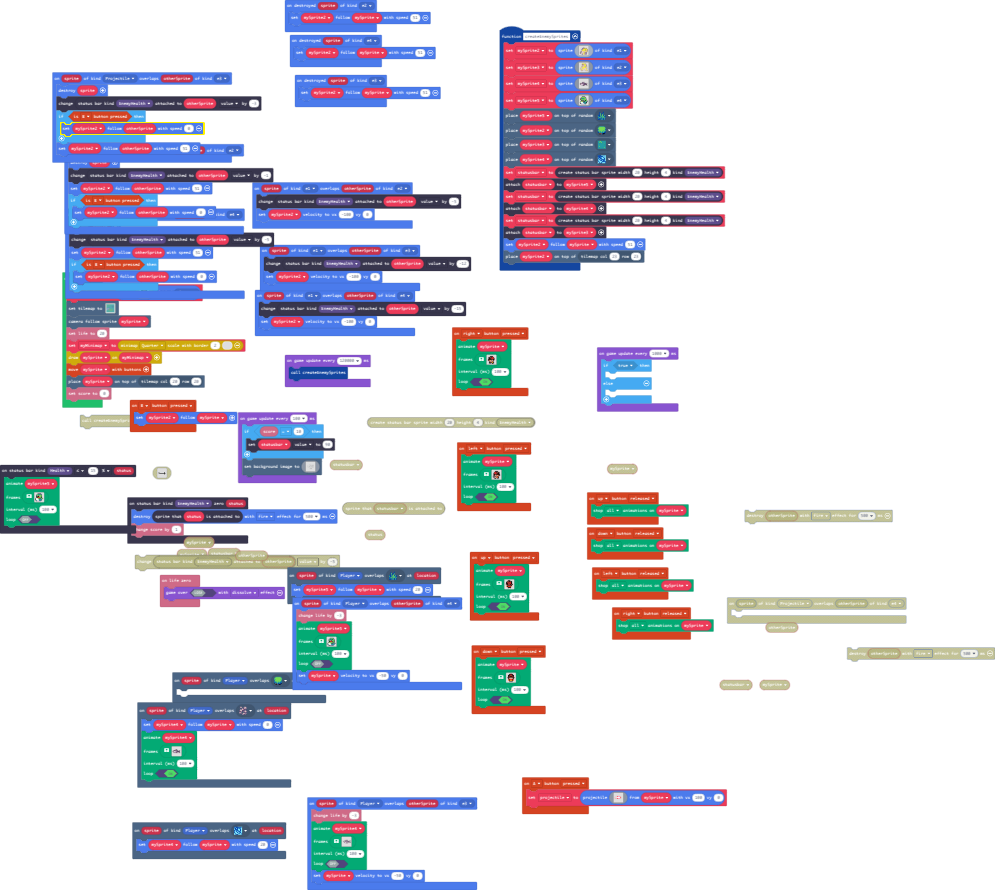
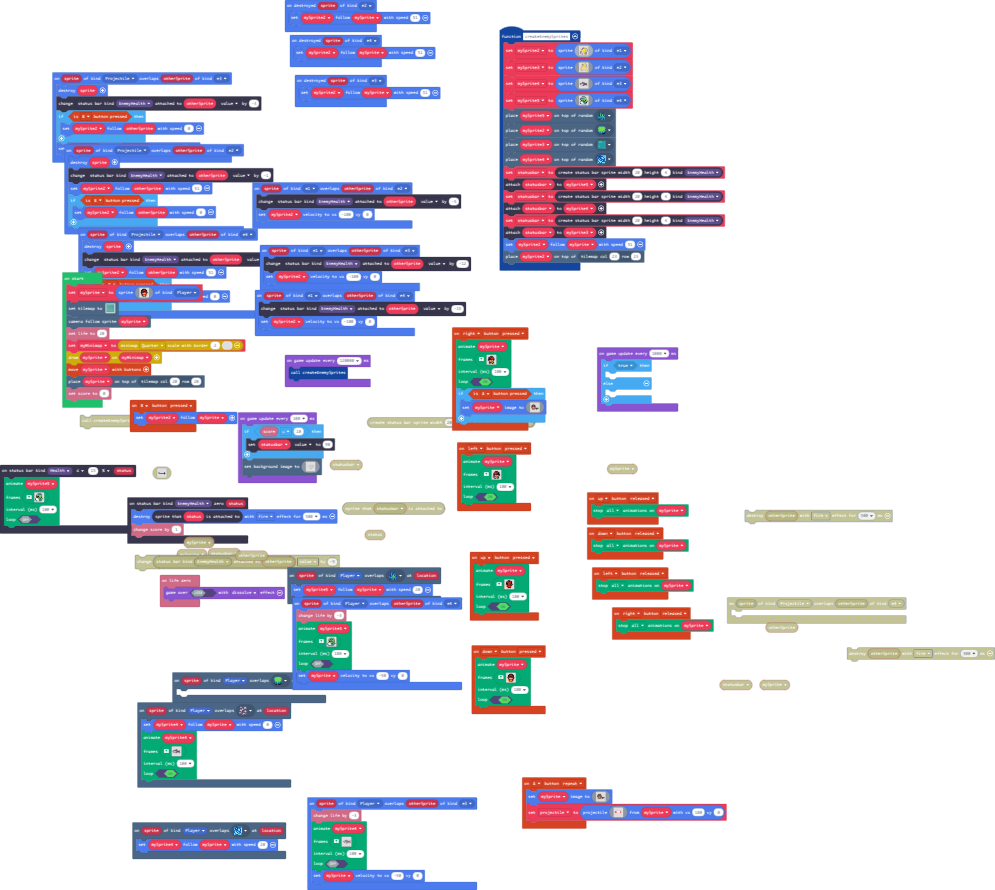
Update main.blocks, main.ts

diff --git a/main.ts b/main.ts
@@ -109,26 +109,6 @@ scene.onOverlapTile(SpriteKind.Player, assets.tile`myTile`, function (sprite, lo
 scene.onOverlapTile(SpriteKind.Player, sprites.builtin.forestTiles0, function (sprite, location) {
 	
 })
-controller.A.onEvent(ControllerButtonEvent.Pressed, function () {
-    projectile = sprites.createProjectileFromSprite(img`
-        . . . . . . . . . . . . . . . . 
-        . . . . . . . . . . . . . . . . 
-        . . . . . . . . . . . . . . . . 
-        . . . . . . . . . . . . . . . . 
-        . . . . . . . . . . . . . . . . 
-        . . . . . 2 2 3 3 3 3 2 . . . . 
-        . 2 2 2 3 3 1 1 1 1 1 3 2 . . . 
-        . 1 1 1 1 1 1 1 1 1 1 1 2 . . . 
-        . 2 2 2 3 3 1 1 1 1 1 3 2 . . . 
-        . . . . . 2 2 2 3 3 3 2 . . . . 
-        . . . . . . . . . . . . . . . . 
-        . . . . . . . . . . . . . . . . 
-        . . . . . . . . . . . . . . . . 
-        . . . . . . . . . . . . . . . . 
-        . . . . . . . . . . . . . . . . 
-        . . . . . . . . . . . . . . . . 
-        `, mySprite, 100, 0)
-})
 controller.down.onEvent(ControllerButtonEvent.Released, function () {
     animation.stopAnimation(animation.AnimationTypes.All, mySprite)
 })
@@ -302,6 +282,26 @@ controller.right.onEvent(ControllerButtonEvent.Pressed, function () {
     100,
     true
     )
+    if (controller.A.isPressed()) {
+        mySprite.setImage(img`
+            ......ffff...............
+            ....fff22fff.............
+            ...fff2222fff............
+            ..fffeeeeeefff...........
+            ..ffe222222eef...........
+            ..fe2ffffff2ef...........
+            ..ffffeeeeffff...........
+            .ffefbf44fbfeff..........
+            .fee41fddf14eef..........
+            .3feeddddddeef...........
+            ...fee4444eef....ffff....
+            ..e4f222222f4efffffffffff
+            ..4df222222fd4fffffffff..
+            ..44f445544f44f...ff.....
+            .....ffffff......ff......
+            .....ff..ff.....ff.......
+            `)
+    }
 })
 sprites.onOverlap(SpriteKind.Player, SpriteKind.e3, function (sprite, otherSprite) {
     info.changeLifeBy(-3)
@@ -761,6 +761,44 @@ statusbars.onStatusReached(StatusBarKind.Health, statusbars.StatusComparison.LTE
 info.onLifeZero(function () {
     game.over(false, effects.dissolve)
 })
+controller.A.onEvent(ControllerButtonEvent.Repeated, function () {
+    mySprite.setImage(img`
+        ......ffff...............
+        ....fff22fff.............
+        ...fff2222fff............
+        ..fffeeeeeefff...........
+        ..ffe222222eef...........
+        ..fe2ffffff2ef...........
+        ..ffffeeeeffff...........
+        .ffefbf44fbfeff..........
+        .fee41fddf14eef..........
+        ..feeddddddeef...........
+        ...fee4444eef....ffff....
+        ..e4f222222f4efffffffffff
+        ..4df222222fd4fffffffff..
+        ..44f445544f44f...ff.....
+        .2...ffffff......ff......
+        .....ff..ff..............
+        `)
+    projectile = sprites.createProjectileFromSprite(img`
+        . . . . . . . . . . . . . . . . 
+        . . . . . . . . . . . . . . . . 
+        . . . . . . . . . . . . . . . . 
+        . . . . . . . . . . . . . . . . 
+        . . . . . . . . . . . . . . . . 
+        . . . . . 2 2 3 3 3 3 2 . . . . 
+        . 2 2 2 3 3 1 1 1 1 1 3 2 . . . 
+        . 1 1 1 1 1 1 1 1 1 1 1 2 . . . 
+        . 2 2 2 3 3 1 1 1 1 1 3 2 . . . 
+        . . . . . 2 2 2 3 3 3 2 . . . . 
+        . . . . . . . . . . . . . . . . 
+        . . . . . . . . . . . . . . . . 
+        . . . . . . . . . . . . . . . . 
+        . . . . . . . . . . . . . . . . 
+        . . . . . . . . . . . . . . . . 
+        . . . . . . . . . . . . . . . . 
+        `, mySprite, 100, 0)
+})
 sprites.onOverlap(SpriteKind.e1, SpriteKind.e2, function (sprite, otherSprite) {
     statusbars.getStatusBarAttachedTo(StatusBarKind.EnemyHealth, otherSprite).value += -5
     mySprite2.setVelocity(-100, 0)
@@ -970,9 +1008,9 @@ sprites.onOverlap(SpriteKind.e1, SpriteKind.e4, function (sprite, otherSprite) {
     statusbars.getStatusBarAttachedTo(StatusBarKind.EnemyHealth, otherSprite).value += -15
     mySprite2.setVelocity(-100, 0)
 })
+let projectile: Sprite = null
 let statusbar: StatusBarSprite = null
 let mySprite3: Sprite = null
-let projectile: Sprite = null
 let mySprite4: Sprite = null
 let mySprite5: Sprite = null
 let mySprite2: Sprite = null
